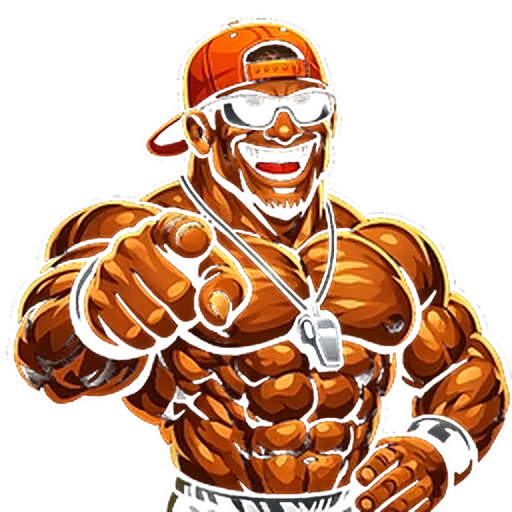
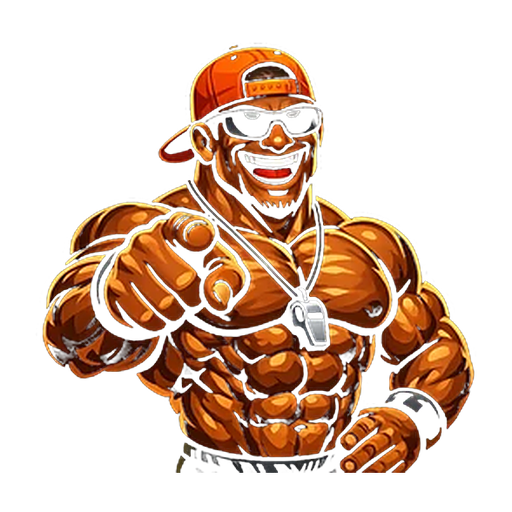
PR : préchargement de la mascotte (fini le délai d'~1 s en dev) + asset recentré carré
- Cause du décalage : en dev, l'asset require() est téléchargé depuis
  Metro au 1er rendu de l'overlay. Précharge via une Image cachée montée
  dès l'écran de séance → cache RN chaud, overlay instantané.
- assets/mascot.png : contenu recadré sur sa bbox alpha puis recentré
  dans un carré (Ronnie était collé en bas-droite) → concentrique au halo.

diff --git a/src/screens/SessionLive.tsx b/src/screens/SessionLive.tsx
@@ -7,7 +7,7 @@
 //  - PRs calculés à la validation d'UNE série (computePRsForSet) et à la
 //    finalisation (computePRs) — sémantique poids brut, PAS e1RM
 import { useEffect, useMemo, useRef, useState } from "react";
-import { View, Text, Pressable, ScrollView, TextInput, Modal, KeyboardAvoidingView, Platform } from "react-native";
+import { View, Text, Pressable, ScrollView, TextInput, Modal, Image, KeyboardAvoidingView, Platform } from "react-native";
 import { useSafeAreaInsets } from "react-native-safe-area-context";
 import { useRouter } from "expo-router";
 import { Ionicons } from "@expo/vector-icons";
@@ -785,6 +785,12 @@ export default function SessionLive({
 
   return (
     <View style={{ flex: 1, backgroundColor: C.bg0 }}>
+      {/* Préchargement de la mascotte : montée dès l'écran de séance (invisible)
+          → le PNG est fetché/décodé et mis en cache RN bien avant tout PR, donc
+          l'overlay l'affiche INSTANTANÉMENT (fini le délai d'~1 s en dev où
+          l'asset se télécharge depuis Metro au 1er rendu). */}
+      <Image source={require("../../assets/mascot.png")} style={{ position: "absolute", width: 1, height: 1, opacity: 0 }} fadeDuration={0} />
+
       <LWBOverlay
         pr={lwbPR}
         onClose={() => {